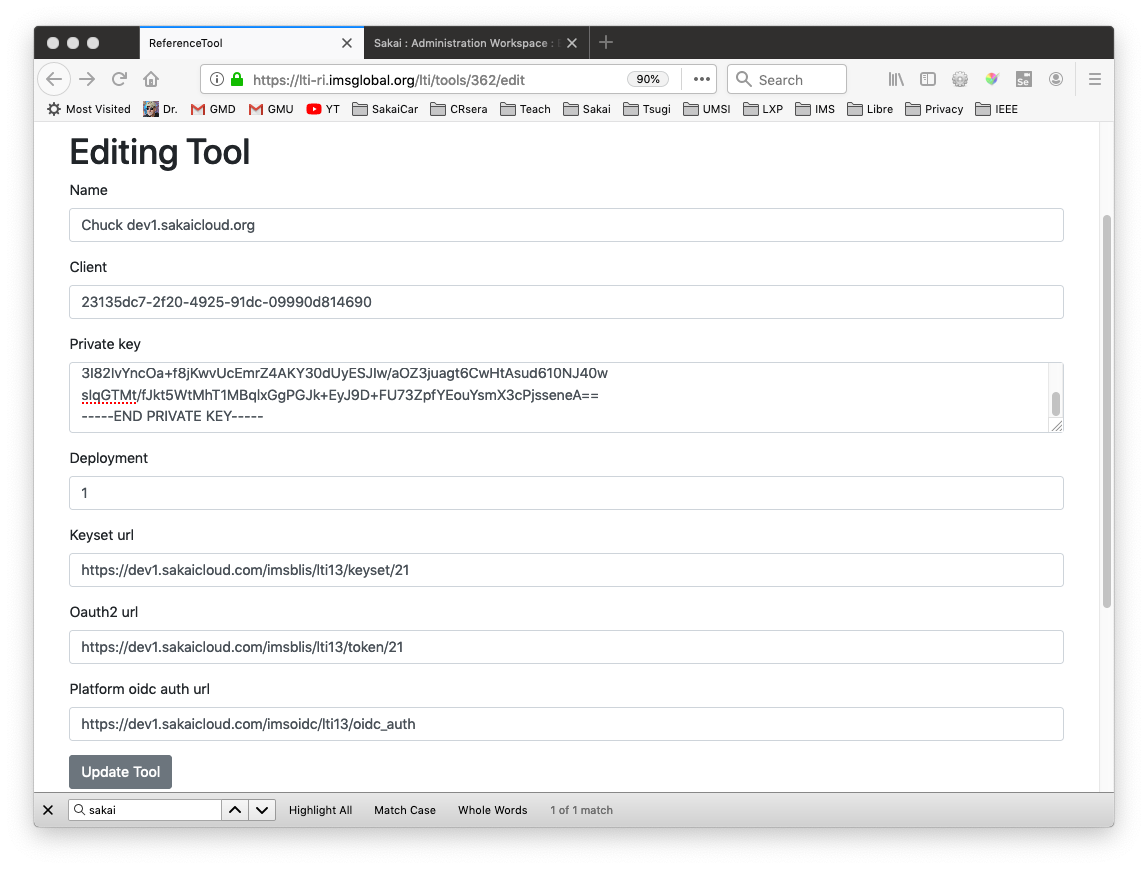
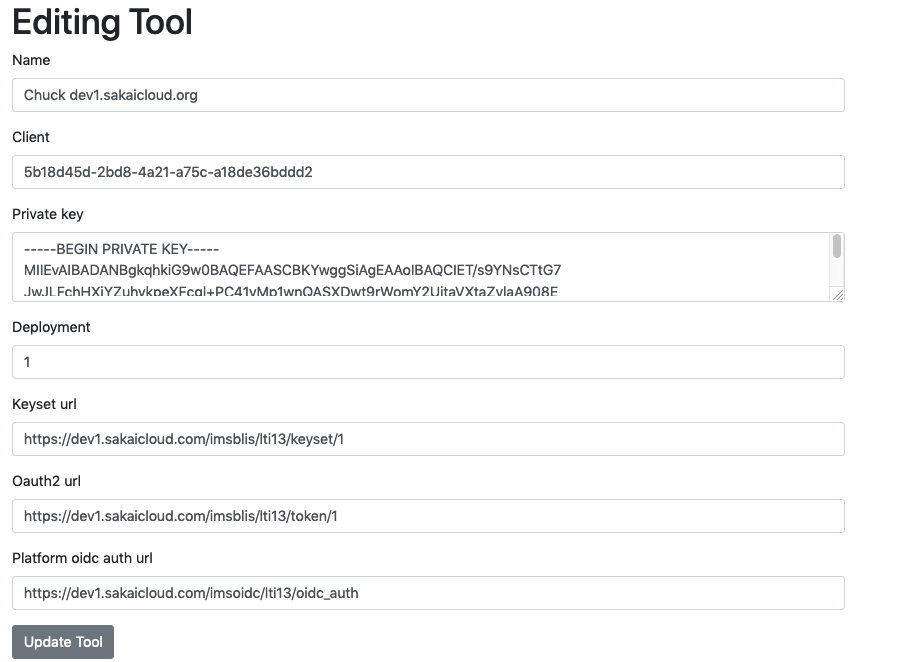
SAK-43698 - Update test plans

Changed region(s): [[0.0, 0.0, 1.0, 0.997], [0.8788, 0.3323, 0.9091, 0.3927]]

diff --git a/basiclti/docs/IMS_RI.md b/basiclti/docs/IMS_RI.md
@@ -43,7 +43,7 @@ Once you save the tool go back to https://lti-ri.imsglobal.org/lti/tools and fin
 tool and copy these values (examples shown):
 (<a href="IMG_IMS_RI/02-RI-Tool-View.png" target="_blank">Image</a>)
 
-    Tool end-point to receive launches:
+    Tool Launch URL:
     https://lti-ri.imsglobal.org/lti/tools/362/launches
 
     Tool end-point to receive Deep Link launches:
@@ -52,6 +52,9 @@ tool and copy these values (examples shown):
     OIDC Login Initiation URL:
     https://lti-ri.imsglobal.org/lti/tools/362/login_initiations
 
+    Tool JWT Key Set URL:
+    https://lti-ri.imsglobal.org/lti/tools/362/.well-known/jwks.json 
+
 Testing a Normal LTI 1.3 / JWT Launch
 -------------------------------------
 
@@ -59,7 +62,7 @@ Back in Sakai, go to Admin -> Admin Workspace -> External Tools -> Install LTI 1
 With the following values (watch for extra spaces while pasting):
 
     Choose a title like "IMS RI Normal Launch"
-    Use "Tool end-point to receive launches" as Launch URL in Sakai
+    Use "Tool Launch URL" as Launch URL in Sakai
     Leave key / secret blank
     Check: Send Names, Send Email, All services
     Check Only: Allow the tool to be launched as a link
@@ -70,6 +73,7 @@ With the following values (watch for extra spaces while pasting):
 
 Copy these fields from the IMS RI to Sakai (don't add spaces at the end):
 
+    LTI 1.3 Tool Keyset URL <- Tool JWT Key Set URL
     LTI 1.3 Tool OpenID Connect/Initialization Endpoint <- OIDC Login Initiation URL
     LTI 1.3 Tool Redirect Endpoint(s) <- Tool Launch Url
 
@@ -84,10 +88,11 @@ Back in the IMS RI edit the your tool and transfer these fields from Sakai to
 the RI:
 
     Client ID
-    Keyset url <- LTI 1.3 Platform OAuth2 Well-Known/KeySet URL
+    Private key (leave blank - let the RI generate this)
+    Deployment - Set to 1
+    Keyset url <- LTI 1.3 Platform OAuth2 Well-Known/KeySet URL 
     Oauth2 url <- LTI 1.3 Platform OAuth2 Bearer Token Retrieval URL
     Platform oidc auth url <- LTI 1.3 Platform OIDC Authentication URL
-    Private key <- Tool Private Key (Must toggle at the bottom to show)
 
 Update the tool.
 (<a href="IMG_IMS_RI/03-RI-Data-Copied.png" target="_blank">Image</a>)
@@ -109,12 +114,13 @@ be able to launch the tool.
 
 You should see a page in the RI that says something like "Make Authentication Request
 back to Platform" - you may need to scroll down - press
-the "Proceed with LTI 1.3 Launch" button to "Continue".
+the "Send Request" button to get back to Sakai so we can do the real launch.
 (<a href="IMG_IMS_RI/13-Lessons-OIDC.png" target="_blank">Image</a>)
 
-You actually need to press this button pretty quickly - this is part of
+You actually need to press the "Send Request" button pretty quickly - this is part of
 the OIDC Connect Flow and Sakai has a pretty short window of time that
-it allows the OIDC Connect flow to come back.
+it allows the OIDC Connect flow to come back nbefore it rejects it for taking too
+long.  Normal tools don't pause at this point but the RI does this to allow debugging.
 
 After you press the button to continue through the Sakai debug screen, you should 
 add "Lauch Status - Valid".
@@ -133,7 +139,7 @@ Go to Admin -> Admin Workspace -> External Tools -> Install LTI 1.x Tool
 Edit the tool you installed and make the following changes:
 
     Change the title and button test to something like "IMS RI Deep Link"
-    Change Launch URL to the "Tool end-point to receive Deep Link launches" value
+    Change Launch URL to the "Tool Deep Link URL" value
     You don't have to change the redirect endpoint
     Leave Checked: Send Names, Send Email, All four services,
     Un-Check: Allow the tool to be launched as a link
@@ -146,14 +152,17 @@ Save the Tool.
 Testing Deep Link Launch
 ------------------------
 
-Back in Lessons, use Add Content -> Add Learning App
+At this point if you can, log in to www.imsglobal.org web site with an IMS account in your browser.
 
+Your Sakai site should have both Lessons and Gradebook.
+
+Back in Lessons, use Add Content -> Add Learning App
 You should see the Reference Implementation tool you just edited in Sakai - choose it.
 It should launch in a modal.  If there are debug buttons - just continue.
 
 You should see a page in the RI that says something like "Make Authentication Request
 back to Platform" - you may need to scroll down - press
-the "Proceed with LTI 1.3 Launch" button to "Continue".
+the "Send Request" button to "Continue".
 
 You actually need to press this button pretty quickly - this is part of
 the OIDC Connect Flow and Sakai has a pretty short window of time that
@@ -163,4 +172,27 @@ The next screen you should see is also from the RI - it should say "Successful l
 
 At this point if you have not logged in you have no more steps unless you log in.
 If you are logged in with your IMS account - keep going :)
+
+Testing Deep Link Installation
+------------------------------
+
+After the Deep Link Launch has worked, scroll down and find "Select Deep Links" and click it.
+
+Pick the LTI link and send it to the platform.  It should appear in Lessons.  Launch the link.
+It should launch and be "valid".
+
+Test "Request Names and Roles" - it should work.
+
+Test "Submit Score to Platform" - it should work (but actually it does not work because as of
+28-May-2020 I think there is a bug in the reference implementation).
+
+
+
+
+
+
+
+
+Make sure gradebook
+
 
